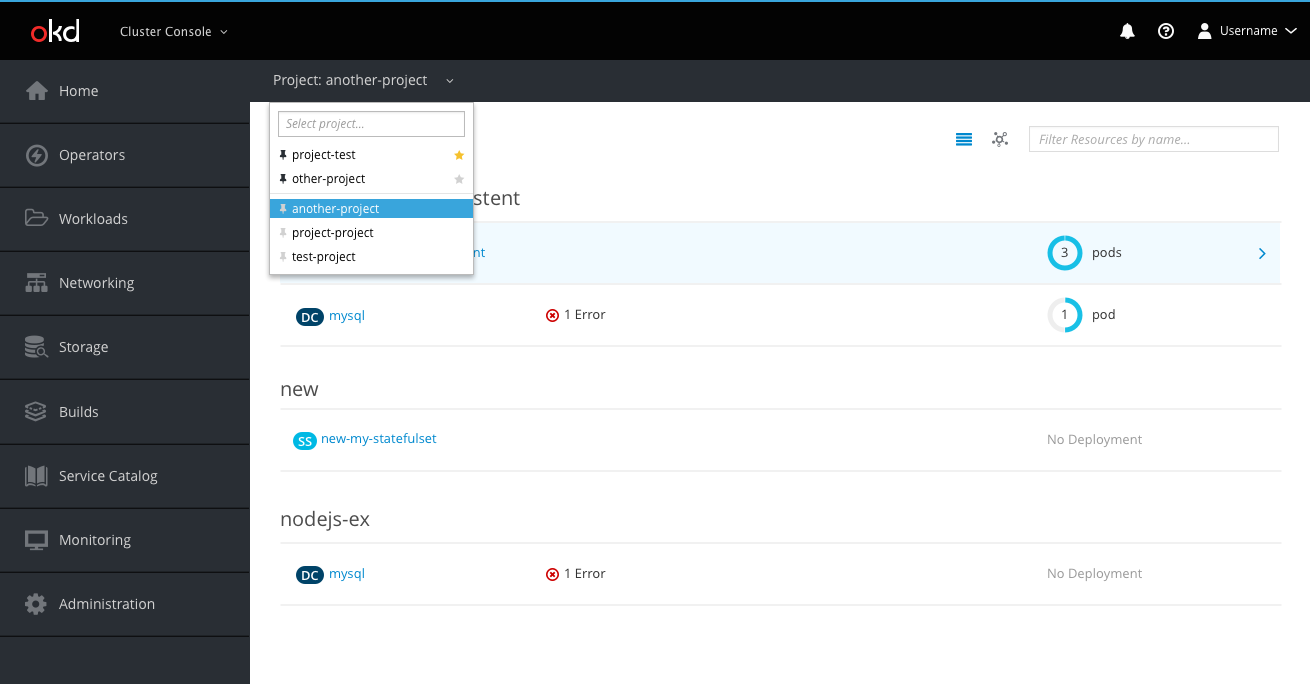
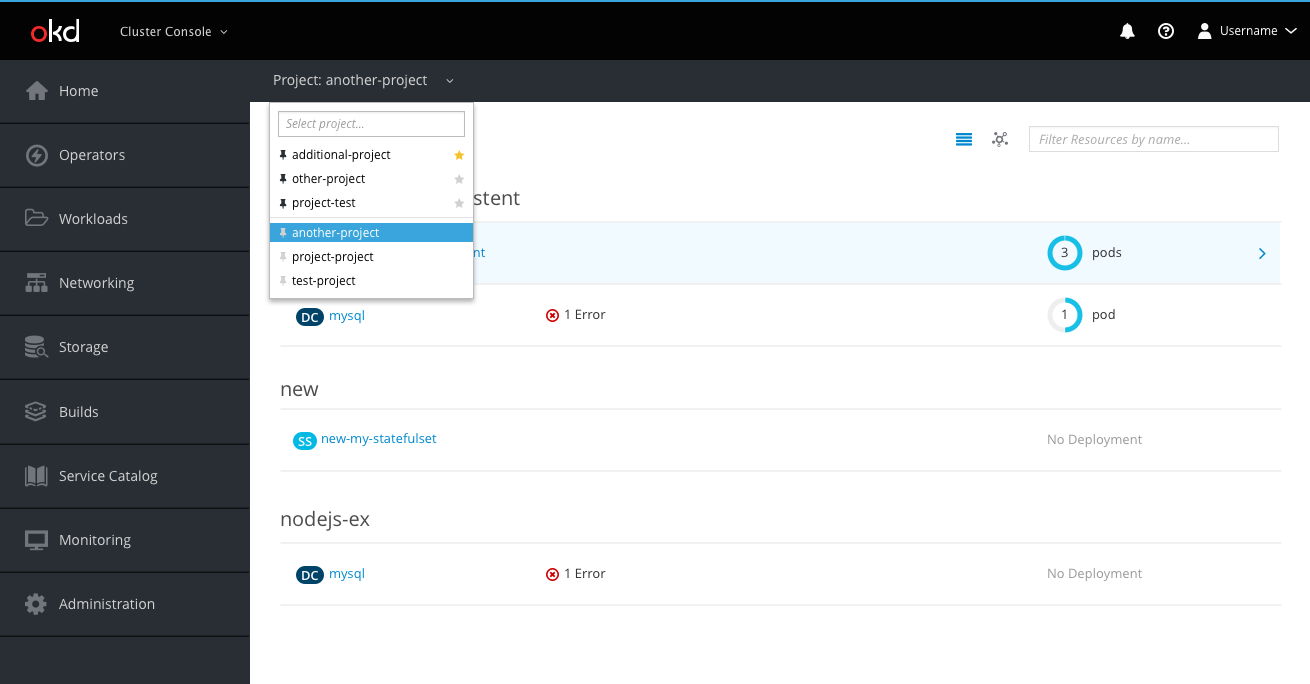
Adding hover visuals and making minor additions to documentation

Changed region(s): [[0.1832, 0.2763, 0.3664, 0.4605], [0.2137, 0.2149, 0.3053, 0.2456]]

diff --git a/web-console/4.0-designs/project-selector/project-selector.md b/web-console/4.0-designs/project-selector/project-selector.md
@@ -5,7 +5,7 @@ The project selector will be accessible at all times from the secondary masthead
 ![image 1](img/1.png)
 ![image 2](img/1.1.png)
 
-* The project selector dropdown will have two sections; pinned projects and the default project will be in the first section of the list and all other projects will be in the second section of the list. The sections will be divided by a horizontal separator.
+* The project selector dropdown will have two sections; pinned projects and the default project will be in the first section of the list and all other projects will be in the second section of the list. The sections will be divided by a horizontal separator. Both sections will be sorted alphabetically, with the exception of the default project, which will always be the first project in the list.
 * Pinned projects
   * Pinned projects are above the horizontal separator and have a black (pf-black) pin icon (pficon-thumb-tack) to the left of the project name.
   * Projects below the separator can be added to the pinned projects list by clicking its grey (pf-black-300) pin icon.
@@ -13,5 +13,6 @@ The project selector will be accessible at all times from the secondary masthead
 * Default project
   * The default project is the automatically selected project when a user logs in and navigates to a project specific page.
   * The default project is the first project in the list and has a yellow (pf-gold-300) star icon (fa-star) to the right of the project name.
-  * Users may change the default project by clicking the grey (pf-black-300) star icon next to any of their favorite projects.
+  * Users may change the default project by clicking the grey (pf-black-300) star icon next to any of their pinned projects.
   * Only one project may be the default project at any given time.
+  * If the user does not set a default project, the first project alphabetically will act as the default project.
